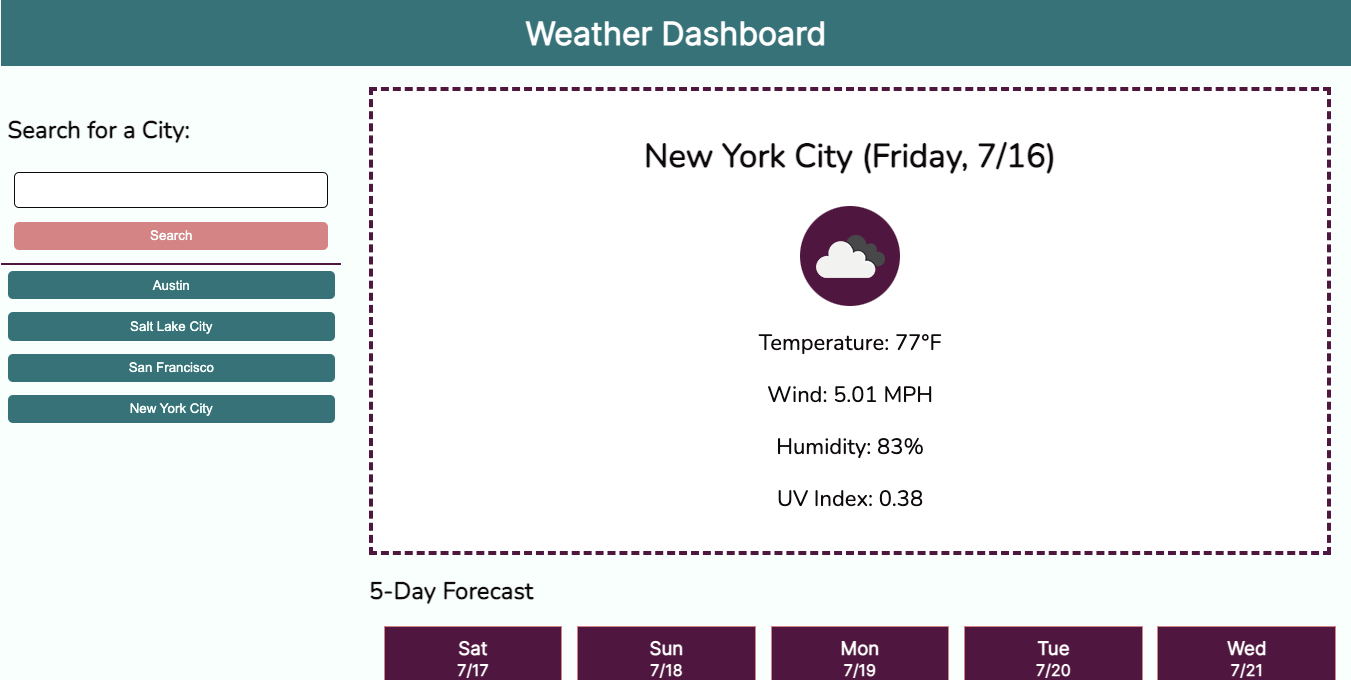
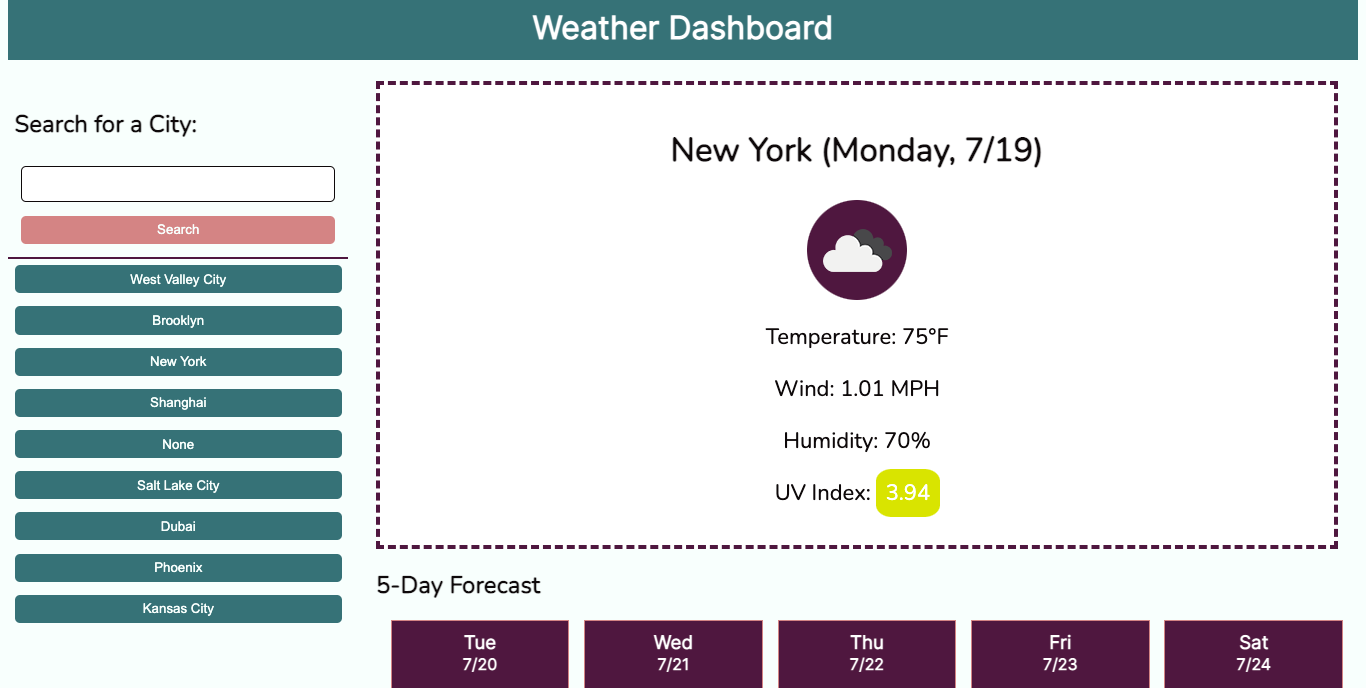
Cleaned code. Updated website screenshot to show UV index color

diff --git a/assets/script.js b/assets/script.js
@@ -6,7 +6,6 @@ var cityEl = document.querySelector("#city");
 var searchSection = document.querySelector(".search-section");
 var buttonSection = document.querySelector(".button-container")
 var resultsSectionEl = document.querySelector(".results-section");
-buttonSection.addEventListener("click", clickButton);
 
 // Other global variables
 var weatherAttribute = ["Temperature: ", "Wind: ", "Humidity: ", "UV Index: "];
@@ -16,6 +15,27 @@ var cityArr = JSON.parse(localStorage.getItem("cityArr")) || [];
 // Create buttons when webpage reloads
 for (var i=0; i<cityArr.length; i++){
     createButton(i);
+}
+
+// Create button to access previous search and connect it to a function
+function createButton(index) {
+    var newBtn = document.createElement("button");
+    newBtn.setAttribute("id", "city-btn"+index);
+    newBtn.setAttribute("class", "btn search city city-btn");
+    newBtn.setAttribute("data-name", cityArr[index]);
+    newBtn.textContent = cityArr[index];
+    buttonSection.appendChild(newBtn);
+
+    newBtn.addEventListener("click", clickButton);
+}
+
+function clickButton(event) {
+    var button = event.target;
+    cityName = button.getAttribute("data-name");
+    resultsSectionEl.innerHTML = "";
+    cityEl.value = "";
+
+    getLatLon();
 }
 
 // When submit button pressed, get latitude and longitude of city
@@ -39,24 +59,6 @@ function splitString(string) {
     cityName = string.join(" ");
 }
 
-// Create button to access previous search and connect it to a function
-function createButton(index) {
-    var newBtn = document.createElement("button");
-    newBtn.setAttribute("id", "city-btn"+index);
-    newBtn.setAttribute("class", "btn search city city-btn");
-    newBtn.setAttribute("data-name", cityArr[index]);
-    newBtn.textContent = cityArr[index];
-    buttonSection.appendChild(newBtn);
-}
-
-function clickButton(event) {
-    var button = event.target;
-    cityName = button.getAttribute("data-name");
-    resultsSectionEl.innerHTML = "";
-    cityEl.value = "";
-
-    getLatLon();
-}
 
 // Get latitude and longitude of city; create button if URL is valid
 function getLatLon() {
@@ -185,7 +187,7 @@ function createCurrentCard(date, dataValues) {
 // Set color for UV Index
 function setUVColor(uvIndex){
     var uvEl = document.querySelector("#uv-index");
-    console.log(uvEl);
+    
     if(uvIndex < 3){
         uvEl.setAttribute("class", "low");
     } else if (uvIndex >= 3 && uvIndex < 6){

diff --git a/index.html b/index.html
@@ -23,12 +23,13 @@
                 <button type="submit" class="search btn">Search</button>
             </form>
             <div class="button-container">
-                <!-- buttons go here -->
+                <!-- City Buttons Here -->
             </div>
         </aside>
+        
         <!-- Result Section -->
         <article class="results-section">
-            <!-- Insert Current Weather Data Here -->
+            <!-- Current and Forecasted Weather Data Here -->
         </article>
     </main>
     <footer>
